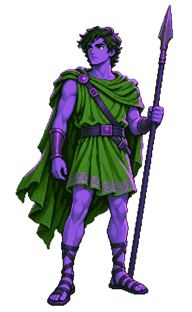
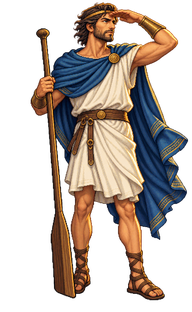
仮画像を専用イラストに差し替え

diff --git a/cmd/gui/assets/items/SOURCES.md b/cmd/gui/assets/items/SOURCES.md
@@ -1,10 +1,10 @@
 # Item illustration references
 
-These photos show representative objects or materials. They are not literal images of the fictional items. The GUI displays pixel-art illustrations in this directory, made with the corresponding photo as a shape and material reference. The reference links are listed below; the downloaded JPEGs are not needed by the GUI.
+The GUI displays pixel-art illustrations rather than photographs. Most existing illustrations use the referenced objects below as shape or material guides; the four reward illustrations marked as generated are original artwork created from text prompts and have no external image references. Reference photos are not included in the GUI assets.
 
-The Metropolitan Museum of Art marks the listed object images as public domain in its Collection API and releases its Open Access images under [CC0](https://metmuseum.github.io/). The three Wikimedia Commons files below are also marked CC0 on their file pages.
+The Metropolitan Museum of Art marks the listed reference images as public domain in its Collection API and releases its Open Access images under [CC0](https://metmuseum.github.io/). The three Wikimedia Commons references below are also marked CC0 on their file pages.
 
-| Game item | Photographed subject | Source | License |
+| Game item | Depicted subject / reference | Source | Reference license / notes |
 | --- | --- | --- | --- |
 | `item.hospitality_gift` | Cloak | [The Met, 107737](https://www.metmuseum.org/art/collection/search/107737) | CC0 |
 | `item.medeas_ointment` | Aryballos | [The Met, 246117](https://www.metmuseum.org/art/collection/search/246117) | CC0 |
@@ -23,7 +23,7 @@ The Metropolitan Museum of Art marks the listed object images as public domain i
 | `item.beeswax` | Beeswax pellets | [Wikimedia Commons](https://commons.wikimedia.org/wiki/File:Homemade_beeswax_wrap_step_1,_beewax_pellets.jpg) | CC0 |
 | `item.sacred_cattle` | Terracotta bull | [The Met, 240954](https://www.metmuseum.org/art/collection/search/240954) | CC0 |
 | `item.odysseus_bow` | Bow | [The Met, 25830](https://www.metmuseum.org/art/collection/search/25830) | CC0 |
-| `item.laurel_of_the_argo` | Placeholder: color-shifted copy of the `item.golden_fleece` illustration. Replace with dedicated art. | this repository | derived from the row above |
-| `item.ember_of_troy` | Placeholder: color-shifted copy of the `item.trojan_horse` illustration. Replace with dedicated art. | this repository | derived from the row above |
-| `item.olive_branch_of_ithaca` | Placeholder: color-shifted copy of the `item.moly` illustration. Replace with dedicated art. | this repository | derived from the row above |
-| `item.thread_of_fate` | Placeholder: color-shifted copy of the `item.hospitality_gift` illustration. Replace with dedicated art. | this repository | derived from the row above |
+| `item.laurel_of_the_argo` | Golden laurel wreath with an Argo medallion | OpenAI image generation | Original generated illustration; no external reference |
+| `item.ember_of_troy` | Glowing ember from the burning city | OpenAI image generation | Original generated illustration; no external reference |
+| `item.olive_branch_of_ithaca` | Olive sprig with dark olives | OpenAI image generation | Original generated illustration; no external reference |
+| `item.thread_of_fate` | Luminous thread wound around a spindle | OpenAI image generation | Original generated illustration; no external reference |
